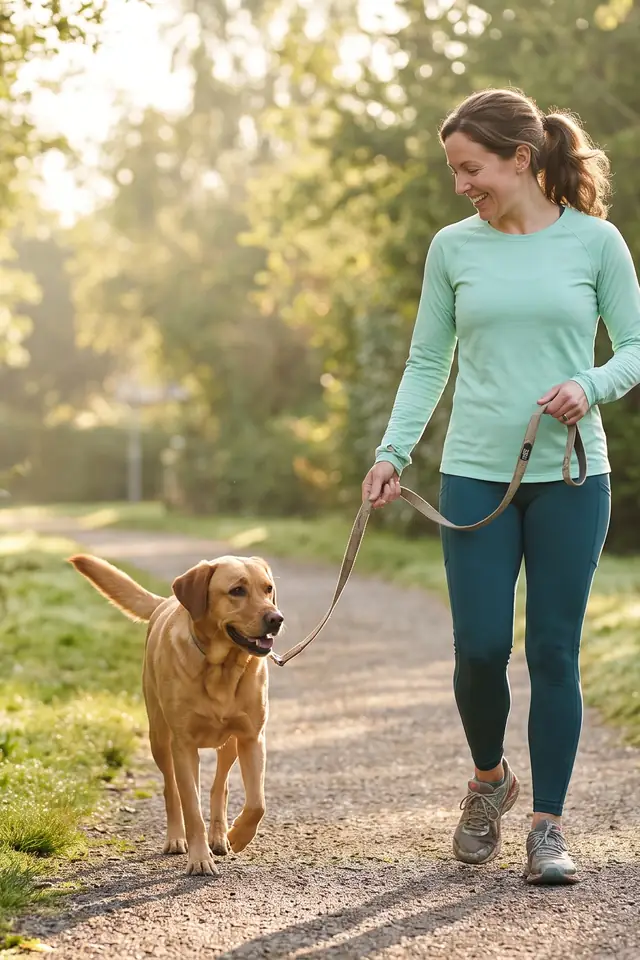
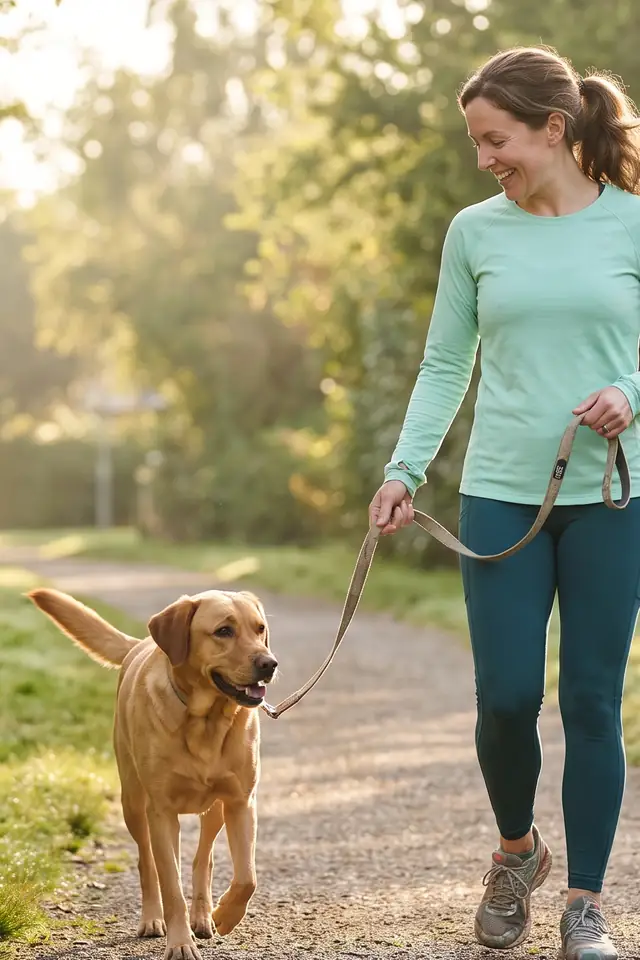
Lift the mobile hero crop so the walker's face clears the eyebrow pill
Phones show the portrait crop's full height (only the sides are cropped), so
the woman's face was locked at ~y135 on screen -- right where the eyebrow
pill starts, so the pill's translucent panel overlapped her downturned face.

Re-frame the portrait crop: trim 5% headroom off the top to lift her face
into the clear band between the header (ends y74) and the pill (starts y141),
and trim the bottom to 0.91 to drop dead gravel foreground. Measured on a
412x915 phone, her face now lands at y108, centred in that gap, with both
her and the dog fully framed.

The trim narrows the native crop to ~1028px, so the largest rendition is now
1024w (was 1195w). White-text contrast over the new crop stays 7.1-9.8:1;
desktop is unaffected (landscape crop unchanged).

diff --git a/index.html b/index.html
@@ -44,7 +44,7 @@
   <!-- Hero photo is the LCP element; fetch it alongside the stylesheet. Two
        media-scoped preloads so each viewport pulls only its own crop. -->
   <link rel="preload" as="image" media="(max-width: 879px)"
-        imagesrcset="assets/img/hero-walk-portrait-640.webp 640w, assets/img/hero-walk-portrait-900.webp 900w, assets/img/hero-walk-portrait-1195.webp 1195w"
+        imagesrcset="assets/img/hero-walk-portrait-640.webp 640w, assets/img/hero-walk-portrait-900.webp 900w, assets/img/hero-walk-portrait-1024.webp 1024w"
         imagesizes="100vw" fetchpriority="high" />
   <link rel="preload" as="image" media="(min-width: 880px)" href="assets/img/hero-walk-1900.webp"
         imagesrcset="assets/img/hero-walk-900.webp 900w, assets/img/hero-walk-1400.webp 1400w, assets/img/hero-walk-1900.webp 1900w, assets/img/hero-walk-2400.webp 2400w"
@@ -113,8 +113,8 @@
           <source media="(max-width: 879px)"
                   srcset="assets/img/hero-walk-portrait-640.webp 640w,
                           assets/img/hero-walk-portrait-900.webp 900w,
-                          assets/img/hero-walk-portrait-1195.webp 1195w"
-                  sizes="100vw" width="1195" height="1792" />
+                          assets/img/hero-walk-portrait-1024.webp 1024w"
+                  sizes="100vw" width="1024" height="1536" />
           <img src="assets/img/hero-walk-1900.webp"
                srcset="assets/img/hero-walk-900.webp 900w,
                        assets/img/hero-walk-1400.webp 1400w,